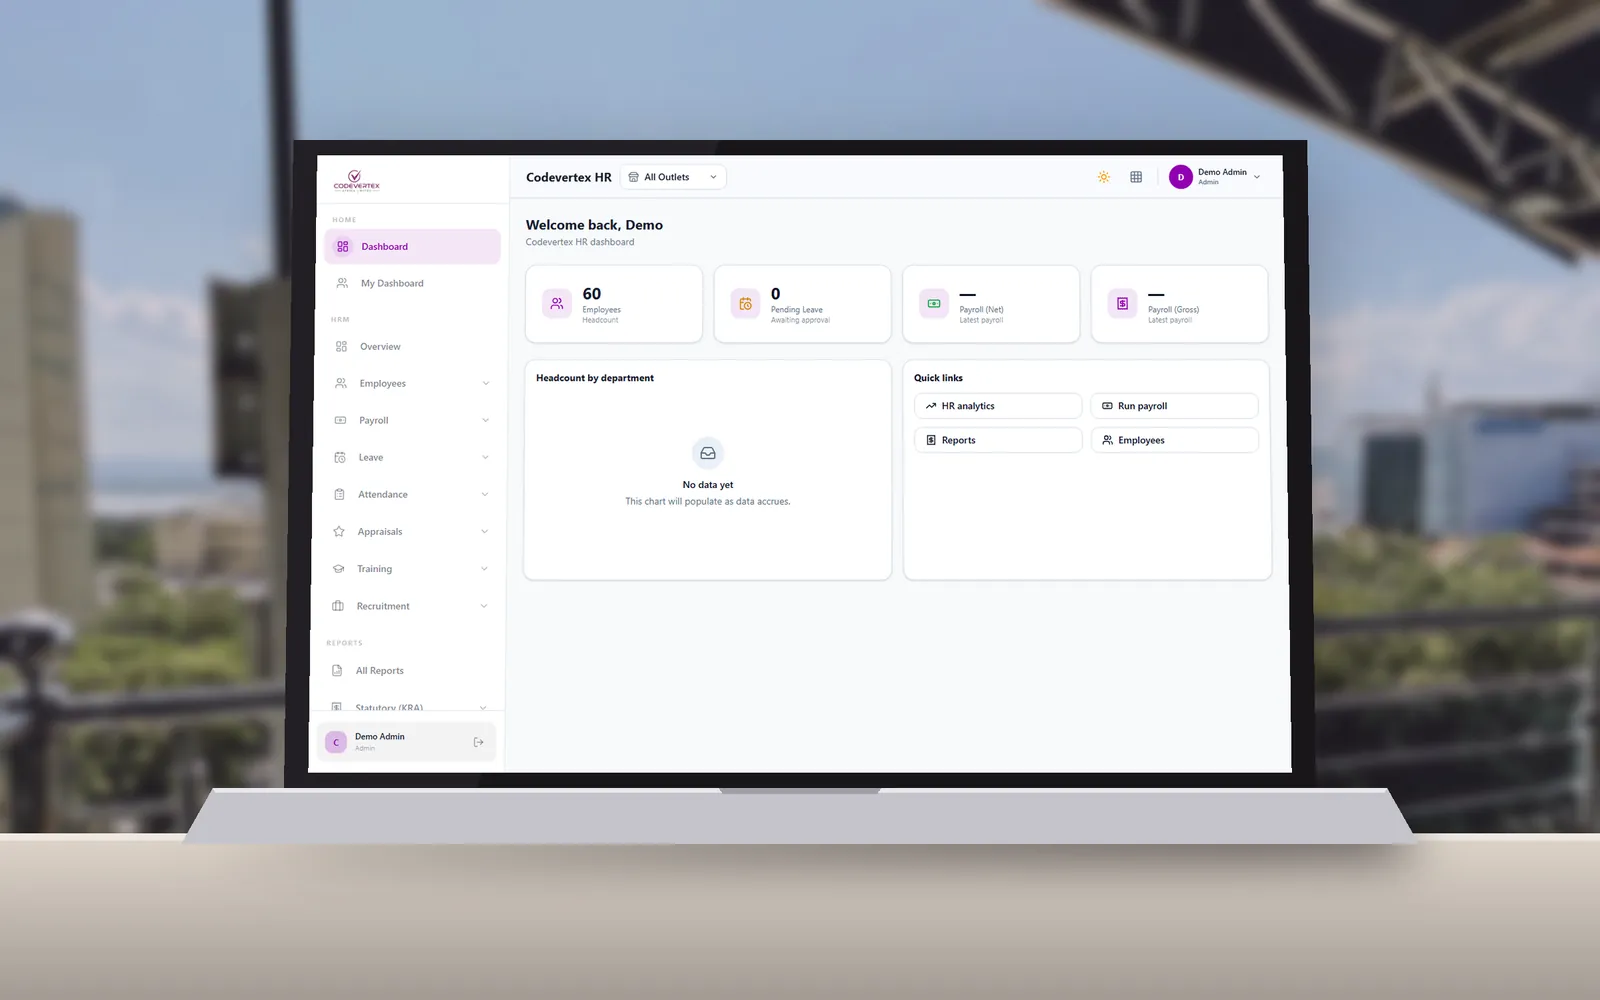
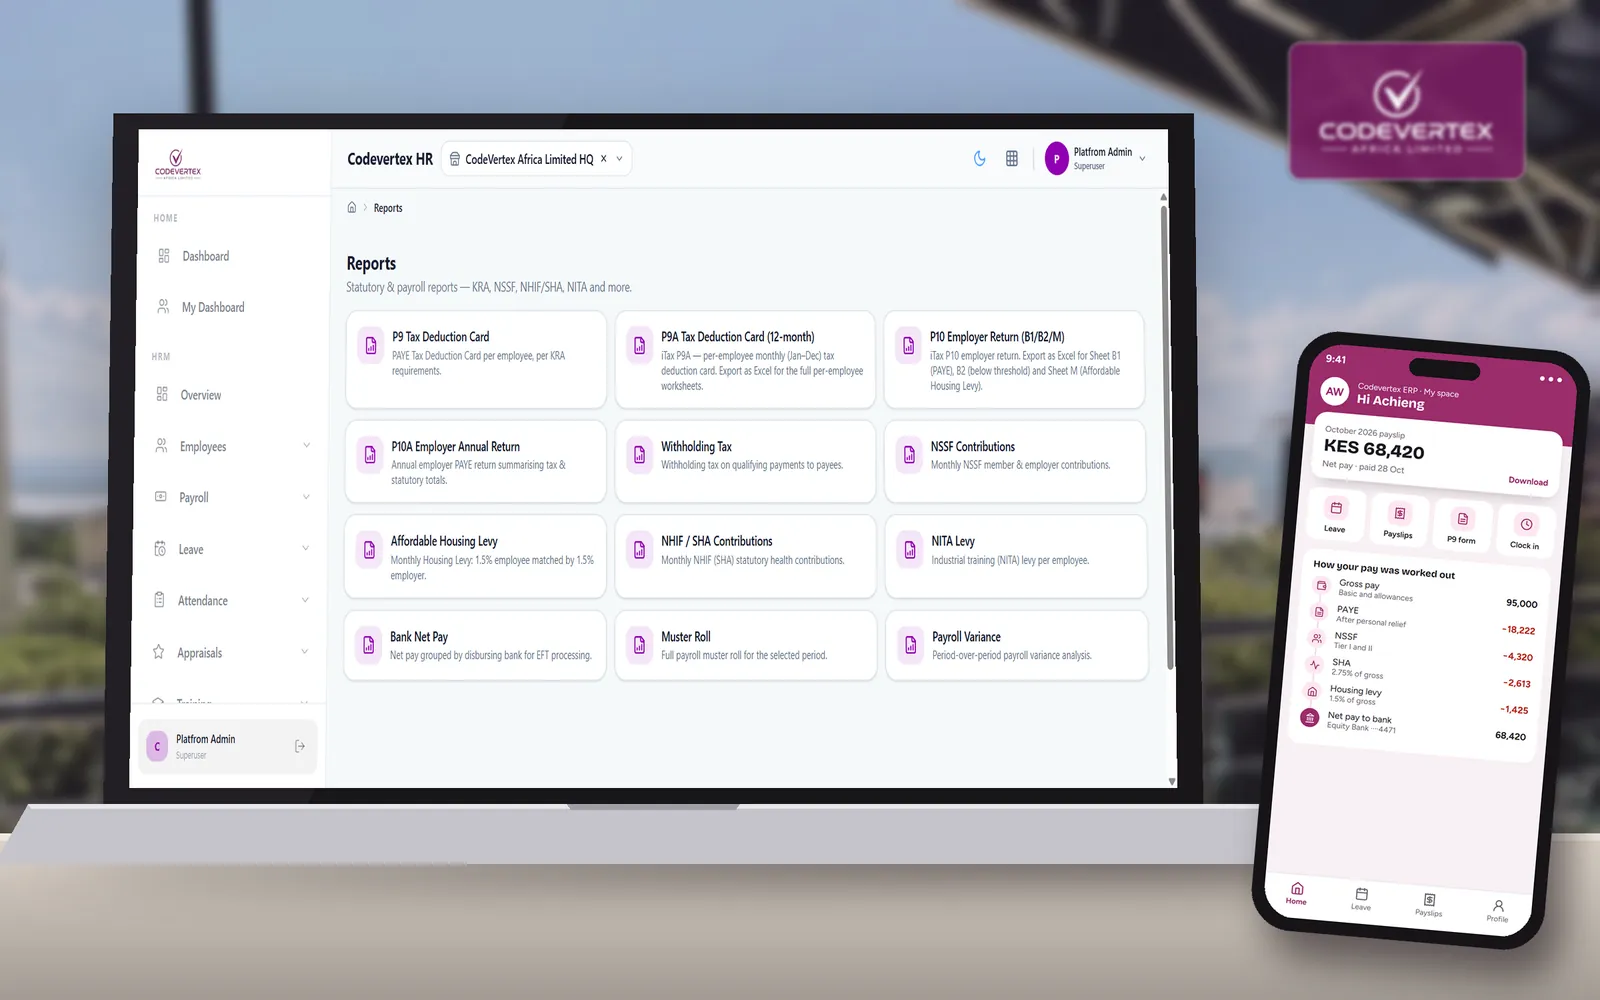
feat(website): branded app scenes, real developer photos and one contact number
Product and service images now show legible, branded app screens on
larger devices:
- ERP reports on a laptop with the self-service payslip on a phone
- Notifications monitoring with the delivery flows on a tablet
- Marketplace storefront with real product photos and M-Pesa checkout
- MarketFlow sequence map and a Vera chat for AI and automation
- Security audit terminal beside threat analytics and standards checks
- Treasury photo with the microphone removed, the laptop zoomed in and
  the approval screen on her phone
- Web and mobile development scenes from real photos of developers at
  the Wikimania 2025 hackathon in Nairobi, credited under CC BY-SA 4.0
- New cybersecurity and mobile development course covers

Calls and WhatsApp now point to +254 743 793 901 everywhere. Image
sources and licences are recorded in docs/image-credits.md.

diff --git a/src/config/services.ts b/src/config/services.ts
@@ -77,7 +77,7 @@ export const POWER_SUITE: PowerSuiteProduct[] = [
     highlights: ['Payroll with statutory deductions', 'Procurement and approvals', 'Staff records and leave'],
     serviceTag: 'erp',
     core: true,
-    screenshot: screen('erp', 'The ERP Suite HR dashboard on a laptop in a city office'),
+    screenshot: screen('erp', 'The ERP Suite reports screen on a laptop, with the employee self-service app showing a payslip breakdown on a phone'),
   },
   {
     id: 'books',
@@ -92,8 +92,8 @@ export const POWER_SUITE: PowerSuiteProduct[] = [
     core: true,
     docs: 'user-guide/treasury/',
     screenshot: {
-      ...screen('books', 'A finance officer working in Books and Treasury on her laptop'),
-      credit: 'Photo: Jaokov, CC BY-SA 4.0, via Wikimedia Commons, with the Books screen added. This image is shared under CC BY-SA 4.0.',
+      ...screen('books', 'A finance officer reviewing the Treasury dashboard on her laptop, with a payment voucher awaiting approval on her phone'),
+      credit: 'Photo: Jaokov, CC BY-SA 4.0, via Wikimedia Commons, edited with the Treasury screens added. This image is shared under CC BY-SA 4.0.',
     },
   },
   {
@@ -125,7 +125,7 @@ export const POWER_SUITE: PowerSuiteProduct[] = [
     status: 'live',
     highlights: ['Branded online menu and shop', 'Pay online or on delivery', 'Live order and rider tracking'],
     core: true,
-    screenshot: screen('ordering', 'Alpha China Market, a real store on the Ordering platform, on a laptop and a phone'),
+    screenshot: screen('ordering', 'A Codevertex marketplace of retail and hospitality stores with flash deals on a laptop, and checkout with M-Pesa on a phone'),
   },
   {
     id: 'projects',
@@ -220,7 +220,7 @@ export const POWER_SUITE: PowerSuiteProduct[] = [
     serviceTag: 'marketflow',
     isNew: true,
     core: true,
-    screenshot: screen('marketflow', 'The MarketFlow dashboard on a laptop, with a customer ordering on a phone'),
+    screenshot: screen('marketflow', 'A MarketFlow lead-to-customer sequence on a tablet, with Vera answering a customer on WhatsApp on a phone'),
   },
   {
     id: 'ticketing',
@@ -259,7 +259,7 @@ export const POWER_SUITE: PowerSuiteProduct[] = [
     highlights: ['Email and WhatsApp templates', 'Delivery history per message', 'Per-tenant sender settings'],
     core: true,
     docs: 'user-guide/notifications/',
-    screenshot: screen('notifications', 'The Notifications dashboard with delivery rate and recent messages, on a laptop'),
+    screenshot: screen('notifications', 'Notifications monitoring on a laptop, with the delivery flows from events to WhatsApp, email, push and SMS on a tablet'),
   },
 ];
 
@@ -285,7 +285,11 @@ export const SERVICE_PILLARS: ServicePillar[] = [
     tagline: 'Portals, Android and iOS apps, and APIs',
     description: 'We build the software your business needs when an off-the-shelf product does not fit: customer portals, internal tools, mobile apps and the APIs that connect them.',
     icon: Code2,
-    photo: { src: '/images/photos/hackathon-pairing.webp', alt: 'Developers working through code together at the MUCISA Hackathon 2025' },
+    photo: {
+      src: '/images/products/mobile-apps-scene.webp',
+      alt: 'A developer building a mobile checkout, with the app running in an emulator beside the code and terminal',
+      credit: 'Photo: JMcRae-WMF, CC BY-SA 4.0, via Wikimedia Commons, edited with the Codevertex screen added. This image is shared under CC BY-SA 4.0.',
+    },
     features: ['Customer and staff portals', 'Android and iOS apps', 'APIs and system integrations', 'Workflow automation'],
     cta: { label: 'Start a project', href: '/contact?service=software' },
   },
@@ -295,7 +299,11 @@ export const SERVICE_PILLARS: ServicePillar[] = [
     tagline: 'Chatbots, workflows and BI dashboards',
     description: 'Chat assistants that answer from your own documents, reports that build themselves, and dashboards your managers read every morning.',
     icon: Workflow,
-    photo: { src: '/images/products/marketflow-scene.webp', alt: 'MarketFlow and the Vera assistant on a laptop, with a customer ordering on a phone' },
+    photo: {
+      src: '/images/products/ai-scene.webp',
+      alt: 'A MarketFlow automation map from WhatsApp, website and Meta ad triggers to Vera AI and follow-ups, with a Vera chat on a phone',
+      credit: "Backdrop: Will Ochieng', CC BY 4.0, via Wikimedia Commons",
+    },
     features: ['Chat assistants on your own data', 'Scheduled reports and alerts', 'BI dashboards', 'Document and data extraction'],
     cta: { label: 'Discuss an AI project', href: '/contact?service=ai' },
   },
@@ -305,7 +313,11 @@ export const SERVICE_PILLARS: ServicePillar[] = [
     tagline: 'Marketplaces and multi-currency stores',
     description: 'Online shops and marketplaces that take M-Pesa and card payments, connected to your stock and your delivery riders.',
     icon: ShoppingBag,
-    photo: { src: '/images/products/ordering-scene.webp', alt: 'An online marketplace of real stores on a laptop and a phone' },
+    photo: {
+      src: '/images/products/web-apps-scene.webp',
+      alt: 'Two developers reviewing a marketplace storefront live beside its code and terminal',
+      credit: 'Photo: JMcRae-WMF, CC BY-SA 4.0, via Wikimedia Commons, edited with the Codevertex screen and sign added. This image is shared under CC BY-SA 4.0.',
+    },
     features: ['Online shops and marketplaces', 'M-Pesa, card and PayHero checkout', 'Stock that stays in sync', 'Delivery and tracking'],
     cta: { label: 'Plan your store', href: '/contact?service=ecommerce' },
   },
@@ -329,7 +341,7 @@ export const SERVICE_PILLARS: ServicePillar[] = [
     tagline: 'Penetration tests, audits and ISO 27001',
     description: 'Security reviews of your systems and staff habits, penetration tests, and help preparing for ISO 27001 and data protection audits.',
     icon: Shield,
-    photo: { src: '/images/products/security-scene.webp', alt: 'Codevertex single sign-on with passkeys and two-step codes, on a laptop in a server room' },
+    photo: { src: '/images/products/security-scene.webp', alt: 'A security audit terminal beside threat analytics and checks against ISO 27001, OWASP Top 10 and the Kenya Data Protection Act, on a laptop in a server room' },
     features: ['Penetration testing', 'Security and code reviews', 'ISO 27001 and data protection readiness', 'Staff awareness training'],
     cta: { label: 'Request a security review', href: '/contact?service=cybersec' },
   },

diff --git a/src/components/layout/Footer.tsx b/src/components/layout/Footer.tsx
@@ -45,7 +45,10 @@ export function Footer() {
             <p className="mt-5 text-sm text-gold font-semibold">{SITE.tagline}</p>
             <address className="mt-5 not-italic text-sm text-night-foreground/70 space-y-1.5">
               <p>{SITE.address}</p>
-              <p><a href={`tel:${SITE.phone2.replace(/\s/g, '')}`} className="hover:text-night-foreground">{SITE.phone2}</a> · <a href={`tel:${SITE.phone1.replace(/\s/g, '')}`} className="hover:text-night-foreground">{SITE.phone1}</a></p>
+              <p>
+                <a href={`tel:${SITE.phone1.replace(/\s/g, '')}`} className="hover:text-night-foreground">{SITE.phone1}</a> (calls and{' '}
+                <a href={SITE.whatsapp} target="_blank" rel="noreferrer" className="hover:text-night-foreground">WhatsApp</a>)
+              </p>
               <p><a href={`mailto:${SITE.email}`} className="hover:text-night-foreground">{SITE.email}</a></p>
             </address>
             <div className="mt-6 max-w-sm">

diff --git a/src/app/services/page.tsx b/src/app/services/page.tsx
@@ -89,7 +89,7 @@ export default async function ServicesPage() {
         aside={
           <div className="glass rounded-4xl p-2 shadow-lift">
             <div className="relative aspect-[16/10] overflow-hidden rounded-3xl">
-              <Image src="/images/products/ordering-scene.webp" alt="Alpha China Market, a real store on the Ordering platform, on a laptop and a phone" fill priority sizes="(min-width: 1024px) 40vw, 100vw" className="object-cover" />
+              <Image src="/images/products/ordering-scene.webp" alt="A Codevertex marketplace of retail and hospitality stores on a laptop, with M-Pesa checkout on a phone" fill priority sizes="(min-width: 1024px) 40vw, 100vw" className="object-cover" />
             </div>
           </div>
         }

diff --git a/src/app/integrations/page.tsx b/src/app/integrations/page.tsx
@@ -64,7 +64,7 @@ const INTEGRATIONS: Integration[] = [
         caption: 'Paid at the counter',
         credit: 'Counter photo: Mauryndinar, CC BY-SA 4.0, via Wikimedia Commons, with the POS terminal added. Shared under CC BY-SA 4.0.',
       },
-      { src: '/images/products/ordering-scene.webp', alt: 'Alpha China Market on a laptop and a phone', caption: 'Paid online' },
+      { src: '/images/products/ordering-scene.webp', alt: 'A marketplace checkout paid with M-Pesa on a phone, beside the storefront on a laptop', caption: 'Paid online' },
     ],
     docs: [
       { label: 'How payments work', path: 'integrations/payment-workflow/' },

diff --git a/src/components/home/CTASection.tsx b/src/components/home/CTASection.tsx
@@ -26,7 +26,7 @@ export function CTASection({
               <Link href="/contact">Book a demo</Link>
             </Button>
             <Button size="lg" variant="outline-light" className="rounded-full px-7 glass-dark" asChild>
-              <a href={`tel:${SITE.phone2.replace(/\s/g, '')}`}>Call {SITE.phone2}</a>
+              <a href={`tel:${SITE.phone1.replace(/\s/g, '')}`}>Call {SITE.phone1}</a>
             </Button>
           </div>
         </div>

diff --git a/src/app/contact/page.tsx b/src/app/contact/page.tsx
@@ -15,7 +15,8 @@ const tel = (n: string) => `tel:${n.replace(/\s/g, '')}`;
 
 export default async function ContactPage({ searchParams }: { searchParams: Promise<{ service?: string }> }) {
   const { service } = await searchParams;
-  const phones = [SITE.phone1, SITE.phone2, SITE.phone3];
+  // One number for calls and WhatsApp everywhere on the site.
+  const phones = [SITE.phone1];
 
   return (
     <>

diff --git a/src/lib/constants.ts b/src/lib/constants.ts
@@ -3,6 +3,7 @@ export const SITE = {
   tagline: "Architecting Africa's Digital Excellence",
   url: 'https://codevertexafrica.com',
   email: 'info@codevertexafrica.com',
+  /** The number for calls and WhatsApp everywhere on the site. */
   phone1: '+254 743 793 901',
   phone2: '+254 742 201 368',
   phone3: '+254 792 548 766',

diff --git a/docs/image-credits.md b/docs/image-credits.md
@@ -23,19 +23,34 @@ EXIF, including GPS. Crops remove number plates, burned-in timestamps and the ol
 
 ## Product scenes (`public/images/products/*-scene.webp`)
 
-Real screens captured from the codevertex-demo tenant (and public pages such as the Alpha China
-Market store and the SSO sign-in) and composited onto devices with matched perspective:
+Two kinds of screen go onto the devices:
+
+- Real screens captured from the codevertex-demo tenant: POS, Inventory, Logistics, Treasury, the
+  ERP reports page and Notifications monitoring.
+- Branded mockups built in HTML with sample data, for screens the demo tenant cannot show yet: the
+  MarketFlow sequence map, the Vera chat, the ERP self-service phone, the Notifications delivery
+  flows, the marketplace storefront and checkout, the Treasury approval phone, the security audit
+  and the developer IDE views. Their app chrome copies the real apps, and the store logos are
+  the retail and hospitality tenants' own.
 
 | Scene | Device and backdrop | Backdrop licence |
 |-------|---------------------|------------------|
-| books | Real photo of a woman at her laptop, Books screen placed on the laptop | CC BY-SA 4.0, Jaokov. The scene is shared under CC BY-SA 4.0 and credited where shown |
+| books | Real photo of a finance officer at her laptop: Treasury dashboard on the laptop, the approval screen on the phone on her desk, microphone retouched out | CC BY-SA 4.0, Jaokov. Scene shared under CC BY-SA 4.0, credited where shown |
 | pos | Rendered counter terminal and receipt printer in front of a real Kenyan supermarket | CC BY-SA 4.0, Mauryndinar. Scene under CC BY-SA 4.0, credited where shown |
+| web-apps | Real photo of two developers at the Wikimania 2025 hackathon in Nairobi, storefront and code on the laptop, a Codevertex sign on the wall | CC BY-SA 4.0, JMcRae-WMF. Scene under CC BY-SA 4.0, credited where shown |
+| mobile-apps | Real photo of a developer at the same hackathon, emulator, code and terminal on the laptop | CC BY-SA 4.0, JMcRae-WMF. Scene under CC BY-SA 4.0, credited where shown |
+| ai | Laptop with the MarketFlow map and a phone with Vera, over the Kisumu skyline | CC BY 4.0, Will Ochieng', credited where shown |
 | inventory | Laptop over a Naivas supermarket aisle | CC0, safaritravelplus |
-| erp, marketflow, notifications | Laptop (and phone) over a Kisumu city view | CC0, Leo Hempstone |
-| ordering | Laptop and phone with the Alpha China Market store over Mega Plaza | CC0, Leo Hempstone |
+| erp, marketflow | Laptop or tablet with a phone over a Kisumu rooftop view | CC0, Leo Hempstone |
+| notifications | Laptop and tablet over Oginga Odinga Street, Kisumu | CC0, Leo Hempstone |
+| ordering | Laptop and phone over Mega Plaza, Kisumu | CC0, Leo Hempstone |
 | logistics | Laptop over Mombasa port staff | Public domain, Ministry of East African Affairs, Commerce and Tourism |
 | truload | Laptop over our own Kanyonyo install photo | Our photo |
-| security | Laptop with the SSO sign-in over a server hall | CC0, Derrick Coetzee |
+| security | Laptop with the audit terminal and threat analytics over a server hall | CC0, Derrick Coetzee |
+
+Product photos inside the storefront and checkout mockups (frying pan, charger, cappuccino,
+serum, lipsticks, jumper cables) are CC0 from rawpixel, StockSnap and Flickr, found through
+Openverse.
 
 Scripts that rebuild the scenes are kept with the session notes, not in the repo; the inputs are the
 screens above and the listed backdrops.
@@ -47,6 +62,8 @@ screens above and the listed backdrops.
 | `photos/kisumu-mega-plaza.webp` | "Mega Plaza Kisumu", Leo Hempstone, Wikimedia Commons | CC0 |
 | `photos/data-centre.webp` | "A view of the server room at The National Archives", The National Archives (UK) | CC BY 3.0, credited on the card |
 | `courses/kids-scratch.jpg`, `courses/kids-games.jpg` | "Looking at the laptop 02", "Students using a computer laptop", Kwameghana | CC0 |
+| `courses/cybersec.jpg` | Our own render: a hardening-check terminal and standards badges | Ours |
+| `courses/mobile-dev.jpg` | Our mobile IDE and checkout renders over the Kisumu rooftop view | CC0 backdrop, Leo Hempstone |
 
 ## Logos
 
